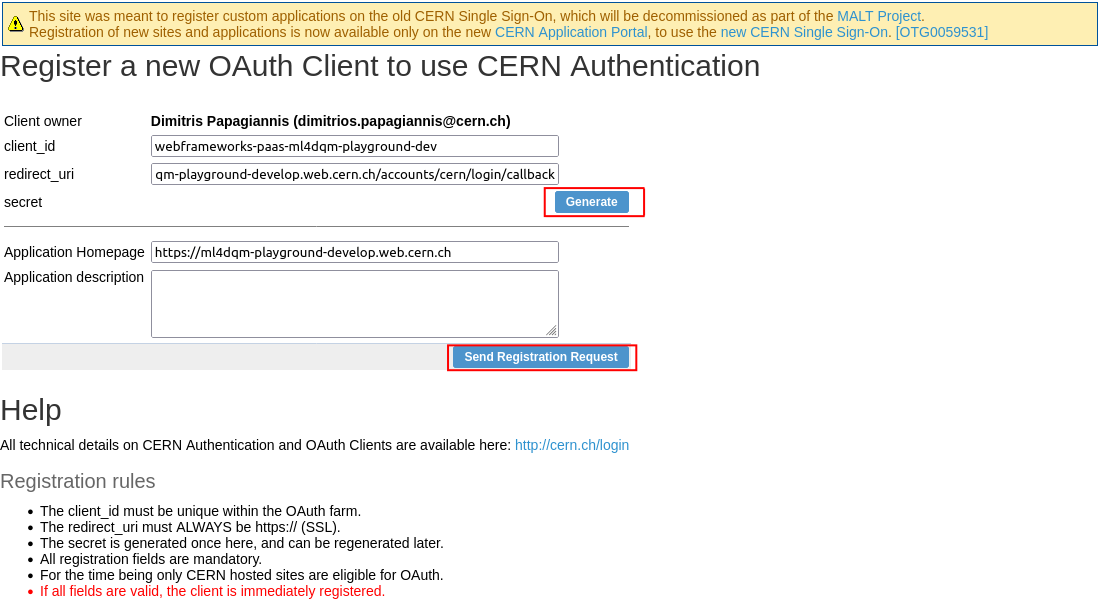
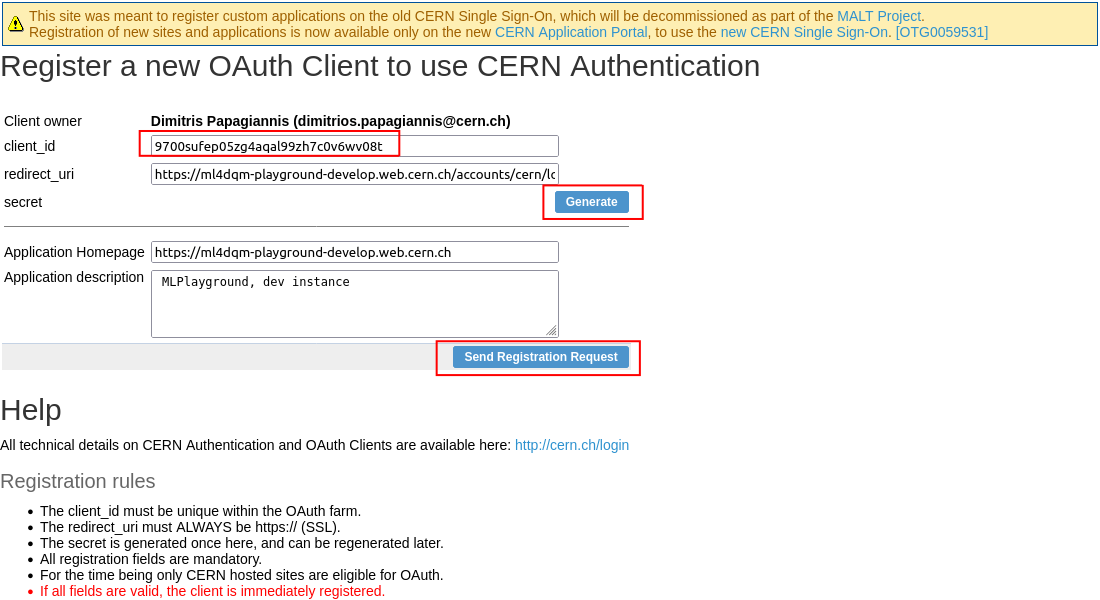
Finalized instructions

diff --git a/docs/mlplayground/deploying/guide.md b/docs/mlplayground/deploying/guide.md
@@ -391,24 +391,31 @@ You will be asked for a `username`, a `password` and an `e-mail` (the latter is 
 <!-- * Click on `SSO Registration` and generate an `OpenID Connect` provider. -->
 <!-- * Note the `Client ID` and `Client Secrets`. -->
 
-1. Visit the [application portal](https://application-portal.web.cern.ch/).
-2. **Note the `Identifier` of your application.**
+2. Generate a random 32-characters long alphanumeric identifier (e.g. [here](https://www.gigacalculator.com/randomizers/random-alphanumeric-generator.php)).
 3. Click [here](https://sso-management.web.cern.ch/OAuth/RegisterOAuthClient)
 to visit the **deprecated but still working** SSO registration page.
-4. Enter the `Identifier` you noted earlier in the `client_id` field.
+4. Enter the generated string in the `client_id` field.
 5. Enter the full URL to your application in the `redirect_uri` field, followed by `/accounts/cern/callback/`,
 e.g. `https://ml4dqm-playground-develop.web.cern.ch/accounts/cern/login/callback/`.
 6. Click `Generate` next to the `secret`. **Note the generated string.**
 7. Enter the full URL to your application in the `Application Homepage` field.
 8. Enter a simple description in the `Application description` field.
-9. Click `Send Registration Request`. 
+9. Click `Send Registration Request`.
+10. You should see an `Client registered successfully.` message.
 
 ![](img/sso-register.png)
+
+!!! note
+
+	Do **not** use the `Identifier` which is automatically generated by 
+	PaaS (found in the [application portal](https://application-portal.web.cern.ch/)).
+	For some reason it does not work out of the box with `django-allauth`,
+	so you will need to generate a random string to use instead.
 
 ### Integration
 
 The single sign-on integration is very easy when using the
-`django-allauth` python package, which has build in CERN support.
+`django-allauth` python package, which has built-in CERN support.
 
 !!! note
 
@@ -420,7 +427,7 @@ The single sign-on integration is very easy when using the
 3. On the left, go to `Sites` and add a new entry, using the full URL of your app:
    ![](img/admin-add-site.png)
 4. Then, go to `Social applications` and add a new entry, selecting `Cern` as a `Provider` and
-   using the `Identifier` and `secret` you noted in the previous section:
+   using the `client_id` and `secret` you noted in the previous section:
    ![](img/admin-add-social-app.png)
 5. Verify the `SITE_ID` value by checking the database itself. E.g. it might ge `1` or `2`. To do that,
    you will first have to [open a terminal on a running pod](#open-a-terminal-in-the-running-pod).
